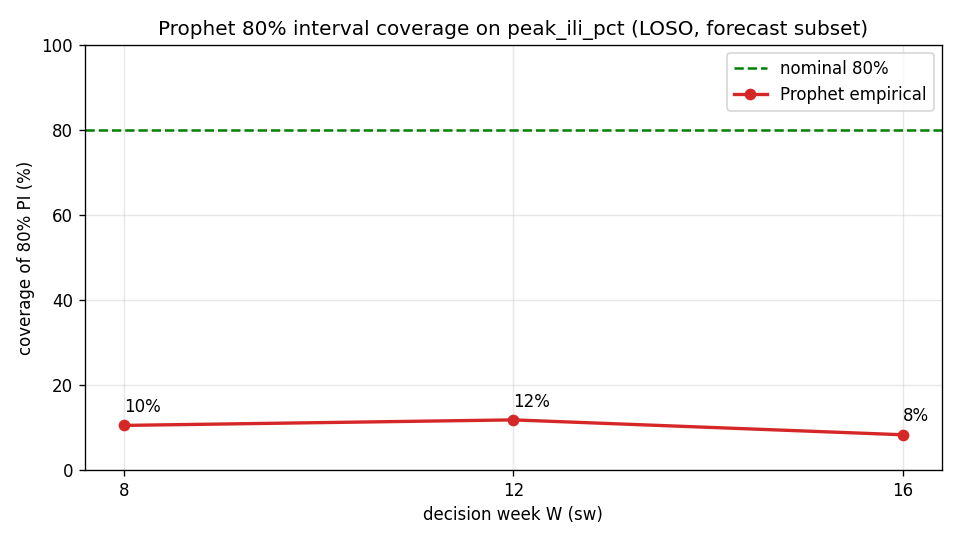
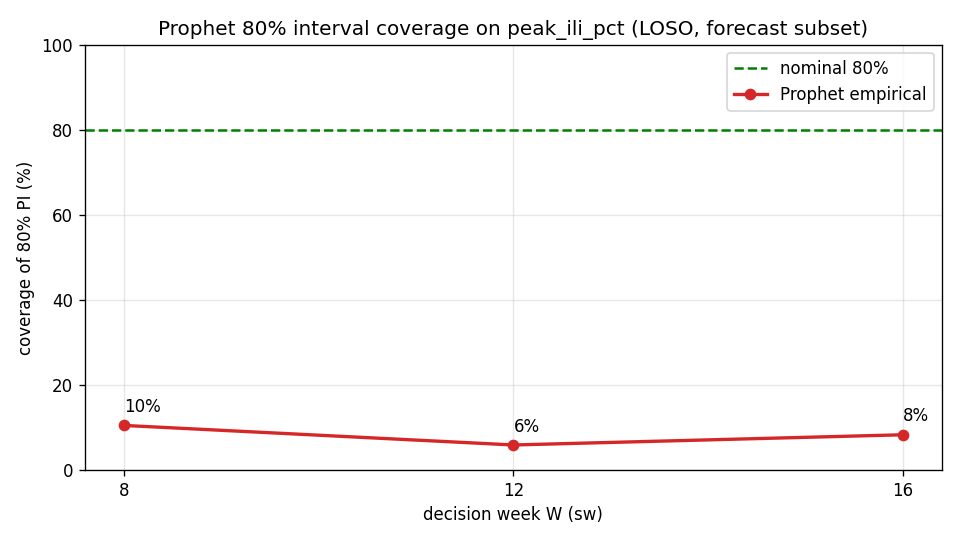
Seed Prophet fit (reproducible calibration); reframe finding as cap-pinning mechanism
Seed Prophet's Stan MAP optimizer (seed=42) so the 80% interval coverage is
reproducible. The earlier run-to-run drift (W=12: 5.9% vs 11.8%) was the unseeded
optimizer, not numpy; seeded, the result is byte-identical across runs and seeds
(W=8/12/16 = 10.5 / 5.9 / 8.3). The 11.8% previously recorded was the unlucky ~1/8
unseeded outcome; the modal value is 5.9%.

Reframe the calibration finding to lead with the MECHANISM, not the percentage:
Prophet's logistic-growth forecast climbs to the training-max ceiling (~7-7.5), so its
80% interval is pinned near that ceiling while most true peaks (2.3-5.5) fall 1.5-4 ILI
points below it (14 of 17 forecast seasons at W=12 sit entirely below the interval).
Coverage of ~6-12% (1-2 of ~17 seasons) vs nominal 80% is the symptom; cap-pinning is
the cause, the same upward-extrapolation pathology as the point forecasts. Coverage is
quoted as a range with a granularity note (one season ~ 6 pts; W=12 tips 5.9/11.8),
not a single hard number. Adds an in-notebook mechanism diagnostic; results/05_* and
figures/08 regenerated under the seed.

Changed region(s): [[0.125, 0.7111, 0.9375, 0.8296]]

diff --git a/results/05_forecasting_summary.md b/results/05_forecasting_summary.md
@@ -27,5 +27,5 @@
 | W | n | nominal | empirical_coverage | verdict |
 | --- | --- | --- | --- | --- |
 | 8 | 19 | 80.0 | 10.5 | over-confident |
-| 12 | 17 | 80.0 | 11.8 | over-confident |
+| 12 | 17 | 80.0 | 5.9 | over-confident |
 | 16 | 12 | 80.0 | 8.3 | over-confident |
